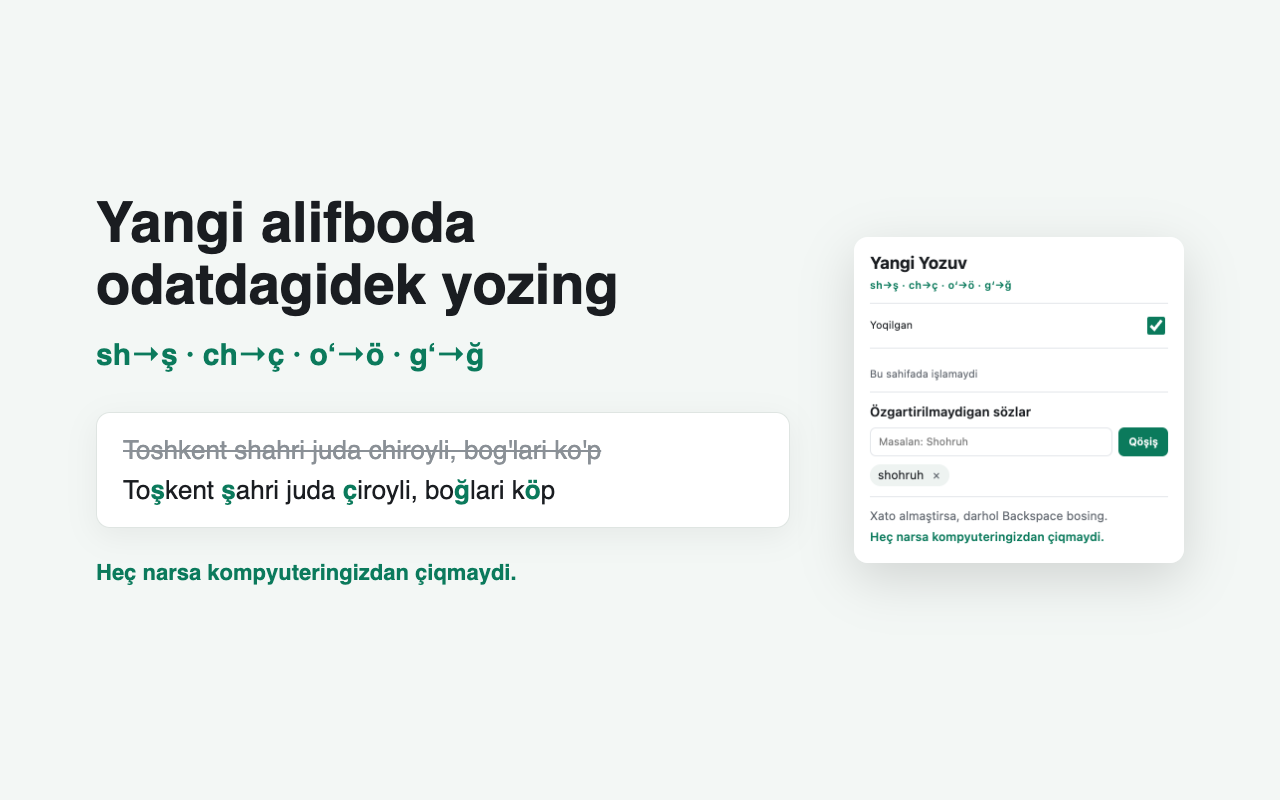
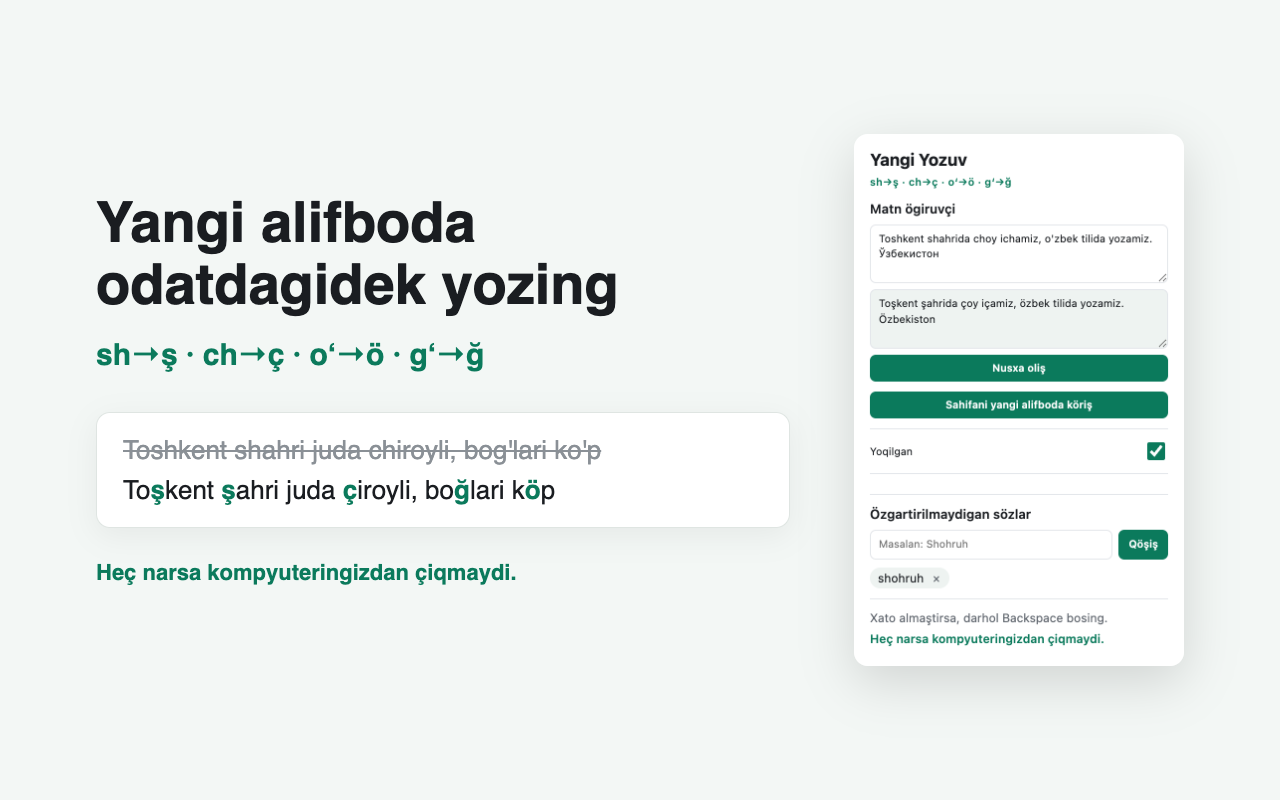
docs: store listing for 0.2 with Uzbek screenshots; bump to 0.2.0

Changed region(s): [[0.6562, 0.1875, 0.9375, 0.8438]]

diff --git a/store/LISTING.md b/store/LISTING.md
@@ -25,20 +25,40 @@ Yangi oʻzbek alifbosida odatdagidek yozing.
   oʻzbek → özbek
   togʻ → toğ
 
+YOZGANINGIZDA
+• Soʻz tugashi bilan almashadi: toʻgʻridan-toʻgʻri matn maydonida.
 • Inglizcha soʻzlar, havolalar, email va @username oʻzgarmaydi.
 • Xato almashtirsa, darhol Backspace bosing: soʻz qaytadi.
 • Ismlar va brendlar uchun "oʻzgartirilmaydigan soʻzlar" roʻyxati.
-• Telegram Web, Gmail, Facebook, Instagram, WhatsApp Web va barcha .uz saytlarda ishlaydi. Boshqa saytda bir tugma bilan yoqiladi.
 
-Hech narsa kompyuteringizdan chiqmaydi. Yozganlaringiz hech qayerga yuborilmaydi: kengaytma internetga umuman murojaat qilmaydi.
+TAYYOR MATN UCHUN
+• Matnni belgilang, sichqonchaning oʻng tugmasini bosing yoki Alt+Shift+Y: yangi alifboga oʻtadi (kirill ham, eski lotin ham).
+• "Sahifani yangi alifboda koʻrish": butun sahifa yangi harflarda, bir tugma bilan asliga qaytadi.
+• Oynadagi matn oʻgiruvchi: qoʻying, nusxa oling.
+
+• Telegram Web, Gmail, Facebook, Instagram, WhatsApp Web va barcha .uz saytlarda ishlaydi. Boshqa saytda bir tugma bilan yoqiladi.
+• Oʻzbekcha, ruscha va inglizcha interfeys.
+
+Hech narsa kompyuteringizdan chiqmaydi. Yozganlaringiz hech qayerga yuborilmaydi: kengaytma internetga umuman murojaat qilmaydi. Kodi ochiq: github.com/azamt18/yangi-yozuv
 
 —
 
 Type the new Uzbek Latin alphabet the way you already type.
 
-From 22 April 2027, Uzbek replaces Sh, Ch, Oʻ and Gʻ with Ş, Ç, Ö and Ğ. Keep typing as usual and Yangi Yozuv converts each word when you finish it. English words, links, emails and @usernames are left alone, and one Backspace undoes a conversion.
+From 22 April 2027, Uzbek replaces Sh, Ch, Oʻ and Gʻ with Ş, Ç, Ö and Ğ. Keep typing as usual and Yangi Yozuv converts each word when you finish it.
 
-Everything runs inside your browser. Nothing you type is ever sent anywhere: the extension makes no network requests at all.
+AS YOU TYPE
+• English words, links, emails and @usernames are left alone, and one Backspace undoes a conversion.
+• A list of words that are never converted (names, brands).
+
+FOR TEXT YOU ALREADY HAVE
+• Select text and use the right-click menu or Alt+Shift+Y: it converts Cyrillic and the old Latin spelling to the new alphabet.
+• "View page in the new alphabet" rewrites a whole page and restores it with one click.
+• A text converter in the popup: paste, copy.
+
+The interface is in Uzbek, Russian and English.
+
+Everything runs inside your browser. Nothing you type is ever sent anywhere: the extension makes no network requests at all. Open source: github.com/azamt18/yangi-yozuv
 ```
 
 **Graphics:**
@@ -49,12 +69,13 @@ Everything runs inside your browser. Nothing you type is ever sent anywhere: the
 ## Privacy practices tab
 
 **Single purpose:**
-Converts Uzbek words typed in the old Latin spelling (sh, ch, oʻ, gʻ) to the new 2027 alphabet (ş, ç, ö, ğ) as the user types.
+Converts Uzbek words typed in the old Latin spelling (sh, ch, oʻ, gʻ) to the new 2027 alphabet (ş, ç, ö, ğ) as the user types, and converts text the user selects (including Cyrillic) or a whole page to the new alphabet when the user asks.
 
 **Permission justifications:**
 - `storage`: saves the user's settings (on/off, sites turned off, words never to convert) in the browser.
-- `scripting`: starts the extension on sites the user turns on from the popup.
-- `activeTab`: reads the current tab's address when the popup opens, to show whether the extension works on that site.
+- `scripting`: starts the extension on sites the user turns on from the popup, and runs "convert selection" and "view page in the new alphabet" in the current tab when the user asks for them.
+- `activeTab`: lets those two actions work on the tab the user is looking at, only after the user clicks the menu item, presses the shortcut or opens the popup, and shows the current site's address in the popup.
+- `contextMenus`: adds the right-click item "Convert to the new alphabet" for selected text.
 - Host permissions (content script on listed sites, optional on others): the extension needs to see what the user types in text fields on those sites to convert it. The text is processed locally and never leaves the device.
 - Remote code: **No**, all code is bundled.
 

diff --git a/ROADMAP.md b/ROADMAP.md
@@ -56,7 +56,7 @@ build in this order. each step ships on its own, with unit tests plus an e2e cas
 - [x] edge add-ons and firefox builds `(sonnet)`. firefox builds as mv3 (`npm run zip:firefox`), `web-ext lint` is clean, steps in `docs/PUBLISHING.md`. **not yet run inside firefox itself**, and the actual store submissions are yours to do
 - [x] **shared test vectors**: export the core + cyrillic cases to `spec/test-vectors.json`, which becomes the single source of truth for kotlin and swift `(sonnet)` 142 cases in `spec/test-vectors.json`, with the contract for ports in `spec/README.md`; `src/core/test-vectors.test.ts` makes the typescript code pass them
 - [x] local-only usage counter in the popup ("you converted 1,240 words"). it stays on the device, nothing is sent `(haiku)`. counts typing (and takes back an undo) plus selection; page view isn't counted. `PRIVACY.md` now mentions the number
-- [ ] update the store listing: "the only one that converts *as you type*, and it also converts cyrillic, selections and whole pages" plus new screenshots `(sonnet)`
+- [x] update the store listing: "the only one that converts *as you type*, and it also converts cyrillic, selections and whole pages" plus new screenshots `(sonnet)`. text and permission justifications are in `store/LISTING.md`, uzbek popup screenshots are regenerated (`npm run store:graphics`); **pasting them into the dashboard is yours**. the gmail / whatsapp web claims in the description are still unverified
 - [ ] later (low priority): reverse direction, new latin → cyrillic / old latin `(sonnet)`
 
 **exit:** every feature the three competitors have is in yangi yozuv, it is live in 3 stores, and the test vectors are frozen as a versioned spec.
